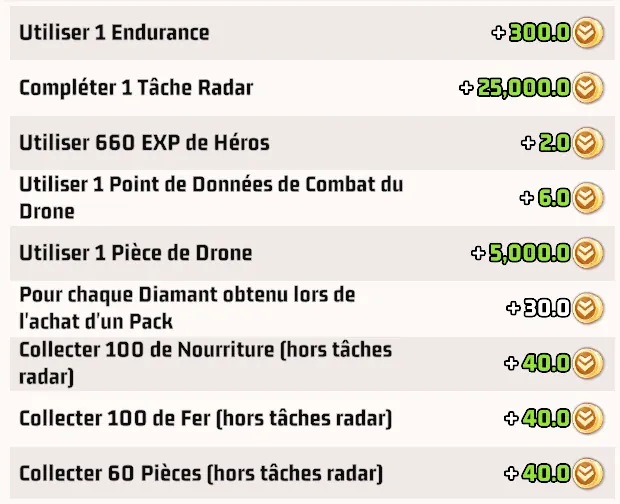
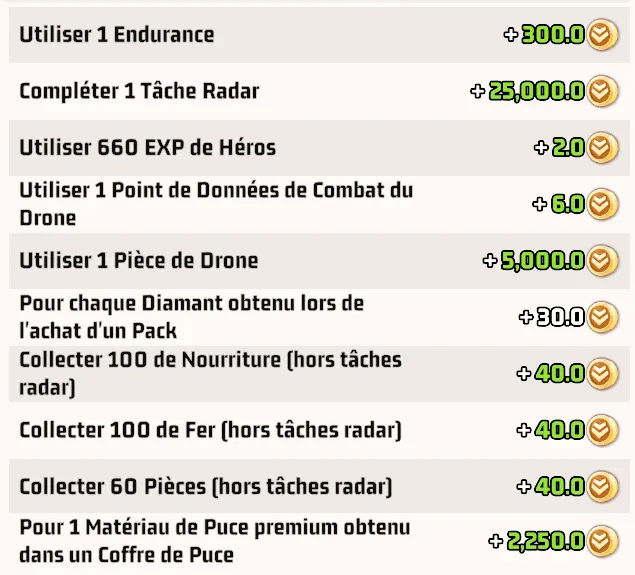
Ajouter les coffres de puce pour le VS du lundi

diff --git a/_posts/2025-11-09-vs-du-lundi.md b/_posts/2025-11-09-vs-du-lundi.md
@@ -20,15 +20,22 @@ date:   2025-11-09 23:00:22 +0100
 |                Utiliser 1 Point de Données de Combat du Drone                |                                                         Explication plus bas                                                          |
 |                          Utiliser 1 Pièce de Drone                           |                                                         Explication plus bas                                                          |
 | Collecter 100 de Nourriture<br/>Collecter 100 de Fer<br/>Collecter 60 Pièces | Envoi des teams en minage (depuis le dimanche soir mais le retour doit être prévu après {{site.heure_bascule}}) puis toute la journée |
+|        Pour 1 Matériau de Puce premium obtenu dans un Coffre de Puce         |                                          Ouvrir les coffres de puces (description plus bas)                                           |
 
 ## Point de Données de Combat du Drone et Pièces de drone
 Il faut utiliser ces points
 
-{% include image.html url="/assets/img/screens/pieces_drone.webp" description="Points de données de combat et pièces de drone" %}
+{% include image.html url="/assets/img/vs/vs_lundi/pieces_drone.webp" description="Points de données de combat et pièces de drone" %}
 
 Dans cet onglet du drone
 
-{% include image.html url="/assets/img/screens/points_drone.webp" description="Amélioration du drone le lundi" %}
+{% include image.html url="/assets/img/vs/vs_lundi/points_drone.webp" description="Amélioration du drone le lundi" %}
+
+## Coffres de Puce
+
+Ce sont les nouveaux coffres arrivés récemment qui permettent d'alimenter l'EXP de Boost de Combat du drone.
+
+{% include image.html url="/assets/img/vs/vs_lundi/coffres_puces.webp" description="Coffres de Puce de drone" %}
 
 ## Si besoin au cas par cas
 
